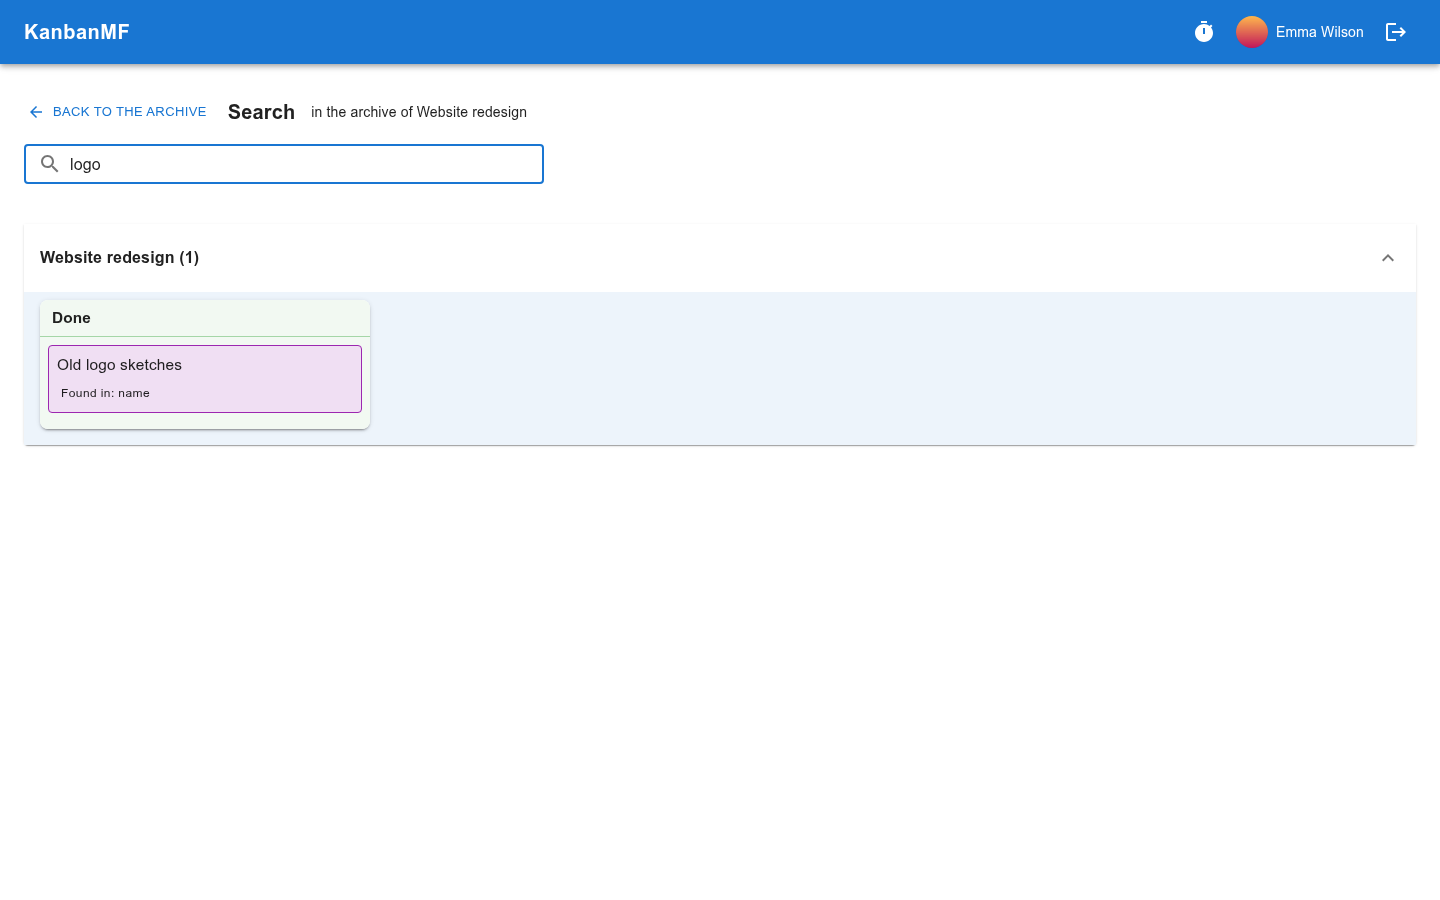
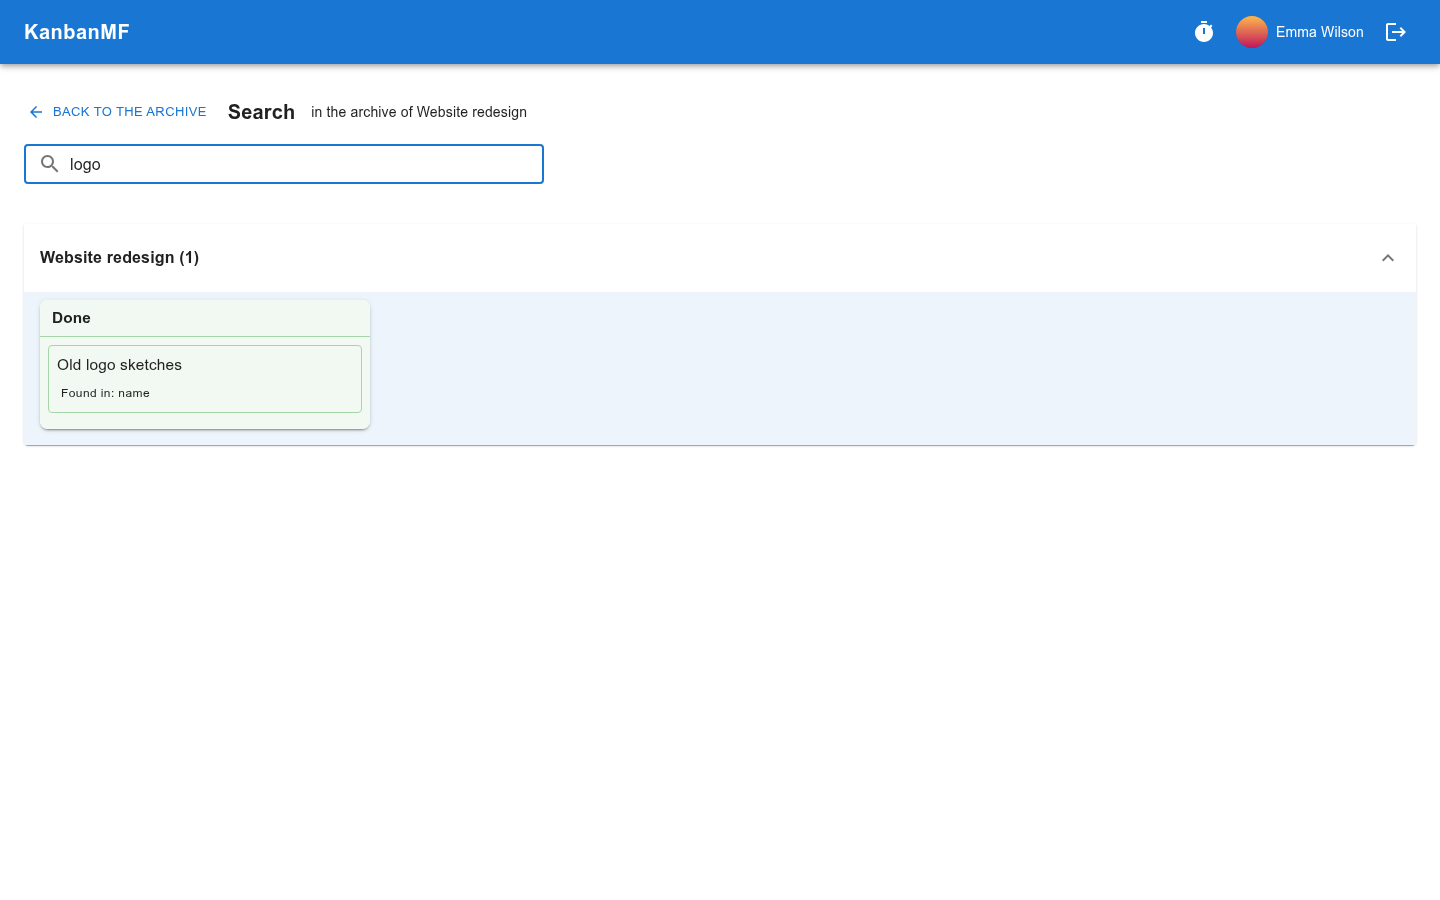
Added more frontend tests, solved contrast issues detected.

Changed region(s): [[0.0312, 0.3733, 0.25, 0.4667]]

diff --git a/frontend/src/utils/locale.test.ts b/frontend/src/utils/locale.test.ts
@@ -1,0 +1,84 @@
+import dayjs from 'dayjs'
+import { describe, expect, it, vi } from 'vitest'
+import {
+  DATE_LOCALES,
+  dayjsLocaleFor,
+  formatDateTime,
+  getBrowserTimezone,
+  intlCodeFor,
+  TIMEZONES,
+} from './locale'
+
+// Intl's exact output (separators, the space before "PM") varies between
+// ICU versions, so these tests check the parts that matter rather than
+// whole strings. The tests run in Europe/Madrid (vite.config.ts).
+const WINTER = '2026-11-14T13:05:00Z' // Saturday, 14:05 in Madrid
+
+describe('intlCodeFor and dayjsLocaleFor', () => {
+  it('give the codes of each supported locale', () => {
+    expect(DATE_LOCALES.map((l) => [l.code, intlCodeFor(l.code), dayjsLocaleFor(l.code)])).toEqual([
+      ['en', 'en-US', 'en'],
+      ['en_GB', 'en-GB', 'en-gb'],
+      ['ca_ES', 'ca-ES', 'ca'],
+    ])
+  })
+
+  it('fall back to US English for an unknown code', () => {
+    expect(intlCodeFor('fr_FR')).toBe('en-US')
+    expect(dayjsLocaleFor('')).toBe('en')
+  })
+})
+
+it('has every dayjs locale it lists loaded', () => {
+  // dayjs.Ls holds the locales imported so far; an unloaded one would
+  // silently fall back to English.
+  const missing = DATE_LOCALES.map((l) => l.dayjsLocale).filter((name) => !(name in dayjs.Ls))
+  expect(missing).toEqual([])
+})
+
+describe('formatDateTime', () => {
+  it('puts the month first and uses AM/PM in US English', () => {
+    const text = formatDateTime(WINTER, 'en-US', 'numeric')
+    expect(text).toMatch(/^11\/14\/2026\b/)
+    expect(text).toMatch(/\b02:05\sPM$/)
+  })
+
+  it('puts the day first and uses 24 hours in British English and Catalan', () => {
+    for (const intlCode of ['en-GB', 'ca-ES']) {
+      const text = formatDateTime(WINTER, intlCode, 'numeric')
+      expect(text, intlCode).toMatch(/^14\/11\/2026\b/)
+      expect(text, intlCode).toMatch(/\b14:05$/)
+    }
+  })
+
+  it('writes the weekday and the month in the language when textual', () => {
+    expect(formatDateTime(WINTER, 'en-US', 'textual')).toMatch(/Saturday.*November/)
+    expect(formatDateTime(WINTER, 'ca-ES', 'textual')).toMatch(/dissabte.*novembre/)
+  })
+
+  it('shows the time in the browser time zone, from a Date or an ISO string', () => {
+    expect(formatDateTime('2026-11-14T09:30:00Z', 'en-GB', 'numeric')).toMatch(/\b10:30$/)
+    expect(formatDateTime(new Date('2026-07-01T09:30:00Z'), 'en-GB', 'numeric')).toMatch(/\b11:30$/)
+  })
+})
+
+describe('time zones', () => {
+  it('lists the IANA zones, and gives the browser one', () => {
+    expect(TIMEZONES).toEqual(expect.arrayContaining(['Europe/Madrid', 'America/New_York']))
+    expect(getBrowserTimezone()).toBe('Europe/Madrid')
+  })
+
+  it('lists none on a browser without Intl.supportedValuesOf', async () => {
+    const intl = Intl as { supportedValuesOf?: unknown }
+    const original = intl.supportedValuesOf
+    intl.supportedValuesOf = undefined
+    try {
+      // TIMEZONES is computed when the module loads, so load a fresh copy.
+      vi.resetModules()
+      const fresh = await import('./locale')
+      expect(fresh.TIMEZONES).toEqual([])
+    } finally {
+      intl.supportedValuesOf = original
+    }
+  })
+})

diff --git a/frontend/src/utils/dueDateColor.test.ts b/frontend/src/utils/dueDateColor.test.ts
@@ -1,0 +1,64 @@
+import dayjs from 'dayjs'
+import { beforeEach, describe, expect, it, vi } from 'vitest'
+import { dueDateStyle } from './dueDateColor'
+
+// The tests run in Europe/Madrid (vite.config.ts), so the offsets below are
+// that zone's: +01:00 in winter, +02:00 in summer. setup.ts puts the real
+// clock back after each test.
+const NOW = '2026-11-14T12:00:00+01:00'
+
+const DARK_TEXT = 'rgba(0, 0, 0, 0.87)'
+const WHITE_TEXT = '#fff'
+
+function styleFor(dueAt: string) {
+  return dueDateStyle(dayjs(dueAt))
+}
+
+describe('dueDateStyle', () => {
+  beforeEach(() => {
+    vi.setSystemTime(NOW)
+  })
+
+  it('is dark red with white text once the due day has passed', () => {
+    expect(styleFor('2026-11-13T18:00:00+01:00')).toEqual({ background: 'rgb(127, 0, 0)', color: WHITE_TEXT })
+  })
+
+  it('is red with dark text on the due day, even after the due time', () => {
+    expect(styleFor('2026-11-14T08:00:00+01:00')).toEqual({ background: 'rgb(244, 67, 54)', color: DARK_TEXT })
+  })
+
+  it('is orange with dark text the day before', () => {
+    expect(styleFor('2026-11-15T10:00:00+01:00')).toEqual({ background: 'rgb(255, 152, 0)', color: DARK_TEXT })
+  })
+
+  it('is mostly yellow 4 days before', () => {
+    expect(styleFor('2026-11-18T10:00:00+01:00')).toEqual({ background: 'rgb(255, 214, 44)', color: DARK_TEXT })
+  })
+
+  it('is yellow with dark text 5 days before', () => {
+    expect(styleFor('2026-11-19T10:00:00+01:00')).toEqual({ background: 'rgb(255, 235, 59)', color: DARK_TEXT })
+  })
+
+  it('is between yellow and green 7 days before', () => {
+    expect(styleFor('2026-11-21T10:00:00+01:00')).toEqual({ background: 'rgb(183, 211, 67)', color: DARK_TEXT })
+  })
+
+  it('is green with dark text 10 days before or earlier', () => {
+    const green = { background: 'rgb(76, 175, 80)', color: DARK_TEXT }
+    expect(styleFor('2026-11-24T10:00:00+01:00')).toEqual(green)
+    expect(styleFor('2026-12-14T10:00:00+01:00')).toEqual(green)
+  })
+
+  it('counts calendar days, not periods of 24 hours', () => {
+    vi.setSystemTime('2026-11-14T23:00:00+01:00')
+    // Two hours away, but tomorrow: orange, not the red of the due day.
+    expect(styleFor('2026-11-15T01:00:00+01:00').background).toBe('rgb(255, 152, 0)')
+  })
+
+  it('still counts 2 days across the spring clock change', () => {
+    // 29 March 2026 has 23 hours, so only 47 hours separate the two
+    // midnights: dividing milliseconds by 24 hours would give 1 day.
+    vi.setSystemTime('2026-03-28T12:00:00+01:00')
+    expect(styleFor('2026-03-30T12:00:00+02:00').background).toBe('rgb(255, 173, 15)')
+  })
+})

diff --git a/frontend/src/utils/labelList.test.ts b/frontend/src/utils/labelList.test.ts
@@ -1,0 +1,70 @@
+import { describe, expect, it } from 'vitest'
+import { capLabels, labelSummary, sortLabels } from './labelList'
+
+// The helpers take anything with a name; the ids show which object is which.
+function labels(...names: string[]) {
+  return names.map((name, i) => ({ id: `l${i + 1}`, name }))
+}
+
+function names(list: { name: string }[]): string[] {
+  return list.map((l) => l.name)
+}
+
+const FIVE = labels('Urgent', 'Writing', 'Bug', 'Website', 'Client')
+
+describe('sortLabels', () => {
+  it('sorts by name, ignoring case and accents', () => {
+    expect(names(sortLabels(labels('Urgent', 'àrea', 'Bug', 'client')))).toEqual(['àrea', 'Bug', 'client', 'Urgent'])
+  })
+
+  it('puts numbers in natural order', () => {
+    expect(names(sortLabels(labels('Phase 10', 'Phase 2', 'Phase 1')))).toEqual(['Phase 1', 'Phase 2', 'Phase 10'])
+  })
+
+  it('returns a sorted copy and leaves the input as it was', () => {
+    const input = labels('Client', 'Bug')
+    const sorted = sortLabels(input)
+    expect(names(input)).toEqual(['Client', 'Bug'])
+    expect(sorted).not.toBe(input)
+  })
+
+  it('keeps labels with equal names in the order given', () => {
+    expect(sortLabels(labels('Area', 'àrea', 'AREA')).map((l) => l.id)).toEqual(['l1', 'l2', 'l3'])
+  })
+})
+
+describe('capLabels', () => {
+  it('shows the first 3 by default and counts the rest', () => {
+    const { shown, hidden } = capLabels(FIVE)
+    expect(names(shown)).toEqual(['Urgent', 'Writing', 'Bug'])
+    expect(hidden).toBe(2)
+  })
+
+  it('shows every label when there are no more than the maximum', () => {
+    expect(capLabels(labels('Bug', 'Client'))).toEqual({ shown: labels('Bug', 'Client'), hidden: 0 })
+    expect(capLabels(labels('Bug', 'Client', 'Urgent')).hidden).toBe(0)
+  })
+
+  it('shows none when the maximum is 0 or less', () => {
+    expect(capLabels(FIVE, 0)).toEqual({ shown: [], hidden: 5 })
+    expect(capLabels(FIVE, -2)).toEqual({ shown: [], hidden: 5 })
+  })
+})
+
+describe('labelSummary', () => {
+  it('is empty when there are no labels', () => {
+    expect(labelSummary([])).toBe('')
+  })
+
+  it('lists the labels sorted, in brackets', () => {
+    expect(labelSummary(labels('Client', 'Bug'))).toBe('(Bug, Client)')
+  })
+
+  it('adds how many labels were left out', () => {
+    expect(labelSummary(FIVE)).toBe('(Bug, Client, Urgent +2)')
+  })
+
+  it('shows only the count when the maximum is 0', () => {
+    expect(labelSummary(FIVE, 0)).toBe('(+5)')
+  })
+})

diff --git a/frontend/src/utils/colorPalette.test.ts b/frontend/src/utils/colorPalette.test.ts
@@ -1,0 +1,39 @@
+import { describe, expect, it } from 'vitest'
+import { PALETTE_COLUMNS } from './colorPalette'
+
+// Relative luminance (WCAG), from 0 for black to 1 for white.
+function luminance(hex: string): number {
+  const [r, g, b] = [1, 3, 5].map((i) => {
+    const s = parseInt(hex.slice(i, i + 2), 16) / 255
+    return s <= 0.03928 ? s / 12.92 : ((s + 0.055) / 1.055) ** 2.4
+  })
+  return 0.2126 * r + 0.7152 * g + 0.0722 * b
+}
+
+describe('PALETTE_COLUMNS', () => {
+  it('has 10 columns of 7 shades, each written as #RRGGBB', () => {
+    expect(PALETTE_COLUMNS).toHaveLength(10)
+    for (const column of PALETTE_COLUMNS) {
+      expect(column.shades, column.name).toHaveLength(7)
+      for (const shade of column.shades) expect(shade, column.name).toMatch(/^#[0-9A-F]{6}$/)
+    }
+  })
+
+  it('never repeats a colour or a column name', () => {
+    const shades = PALETTE_COLUMNS.flatMap((c) => c.shades)
+    const names = PALETTE_COLUMNS.map((c) => c.name)
+    expect(new Set(shades).size).toBe(shades.length)
+    expect(new Set(names).size).toBe(names.length)
+  })
+
+  it('goes from light to dark down each column, and gray carries on where white stops', () => {
+    for (const column of PALETTE_COLUMNS) {
+      const levels = column.shades.map(luminance)
+      const notDarker = levels.slice(1).filter((level, i) => level >= levels[i])
+      expect(notDarker, column.name).toEqual([])
+    }
+    const white = PALETTE_COLUMNS.find((c) => c.name === 'white')!
+    const gray = PALETTE_COLUMNS.find((c) => c.name === 'gray')!
+    expect(luminance(gray.shades[0])).toBeLessThan(luminance(white.shades[6]))
+  })
+})

diff --git a/frontend/src/utils/dueDateColor.ts b/frontend/src/utils/dueDateColor.ts
@@ -13,7 +13,7 @@ function mix(a: RGB, b: RGB, t: number): RGB {
   return [0, 1, 2].map((i) => Math.round(a[i] + (b[i] - a[i]) * clamped)) as RGB
 }
 
-// Relative luminance (WCAG) — used to pick readable text color for a background.
+// Relative luminance (WCAG), from 0 for black to 1 for white.
 function luminance([r, g, b]: RGB): number {
   const [rr, gg, bb] = [r, g, b].map((c) => {
     const s = c / 255
@@ -39,8 +39,16 @@ export function dueDateStyle(dueAt: Dayjs): DueDateStyle {
   else if (daysUntil <= 10) rgb = mix(GREEN, YELLOW, (10 - daysUntil) / 5)
   else rgb = GREEN
 
+  // The text takes whichever of dark and white contrasts more with the
+  // background (WCAG contrast ratio, (lighter + 0.05) / (darker + 0.05)).
+  // White only wins on dark backgrounds, below a luminance of about 0.18,
+  // such as the overdue dark red; on red, orange and green, dark text is far
+  // easier to read.
+  const background = luminance(rgb)
+  const contrastWithWhite = 1.05 / (background + 0.05)
+  const contrastWithDark = (background + 0.05) / 0.05
   return {
     background: `rgb(${rgb[0]}, ${rgb[1]}, ${rgb[2]})`,
-    color: luminance(rgb) > 0.5 ? 'rgba(0, 0, 0, 0.87)' : '#fff',
+    color: contrastWithDark >= contrastWithWhite ? 'rgba(0, 0, 0, 0.87)' : '#fff',
   }
 }

diff --git a/frontend/src/utils/colorTint.test.ts b/frontend/src/utils/colorTint.test.ts
@@ -1,0 +1,30 @@
+import { describe, expect, it } from 'vitest'
+import { STRONG_TINT_WEIGHT, tintColor } from './colorTint'
+
+describe('tintColor', () => {
+  it('gives the base colour at weight 0', () => {
+    // 0x0d also checks that one-digit channels keep their leading zero.
+    expect(tintColor('#1976d2', '#0d47a1', 0)).toBe('#0d47a1')
+  })
+
+  it('gives the colour itself at weight 1', () => {
+    expect(tintColor('#1976d2', '#ffffff', 1)).toBe('#1976d2')
+  })
+
+  it('rounds each channel of the blend', () => {
+    // 127.5 on every channel.
+    expect(tintColor('#000000', '#ffffff', 0.5)).toBe('#808080')
+  })
+
+  it('reads a 3-digit base such as #fff as #ffffff', () => {
+    // MUI's light theme gives its backgrounds as '#fff'.
+    const tint = tintColor('#1976D2', '#fff', STRONG_TINT_WEIGHT)
+    expect(tint).toMatch(/^#[0-9a-f]{6}$/)
+    expect(tint).toBe(tintColor('#1976D2', '#ffffff', STRONG_TINT_WEIGHT))
+  })
+
+  it('takes upper- or lowercase input and answers in lowercase', () => {
+    expect(tintColor('#1976D2', '#FFFFFF', 0.5)).toBe('#8cbbe9')
+    expect(tintColor('#1976d2', '#ffffff', 0.5)).toBe('#8cbbe9')
+  })
+})

diff --git a/frontend/src/test/render.test.tsx b/frontend/src/test/render.test.tsx
@@ -1,7 +1,7 @@
 // Checks the test harness itself (setup.ts, server.ts, render.tsx), so a
 // broken helper shows up here rather than as puzzling failures elsewhere.
 import { useEffect, useState } from 'react'
-import { describe, expect, it } from 'vitest'
+import { describe, expect, it, vi } from 'vitest'
 import { screen } from '@testing-library/react'
 import { useTheme } from '@mui/material'
 import { useParams } from 'react-router-dom'
@@ -76,6 +76,19 @@ describe('renderWithProviders', () => {
     renderWithProviders(<WhereAmI />)
     expect(i18n.language).toBe('en')
     expect(screen.getByText(/^Start/)).toBeInTheDocument()
+  })
+})
+
+describe('the clock', () => {
+  it('can be fixed by a test', () => {
+    vi.setSystemTime('2000-01-01T12:00:00Z')
+    expect(new Date().getFullYear()).toBe(2000)
+  })
+
+  // Relies on running right after the test above (tests in a file run in
+  // order): setup.ts must have put the real clock back in between.
+  it('is real again in the next test', () => {
+    expect(new Date().getFullYear()).toBeGreaterThan(2000)
   })
 })
 

diff --git a/frontend/src/utils/labelColor.test.ts b/frontend/src/utils/labelColor.test.ts
@@ -1,0 +1,23 @@
+import { describe, expect, it } from 'vitest'
+import { contrastColor } from './labelColor'
+
+// Label colours come from the palette and are always #RRGGBB: the backend
+// refuses any other form.
+describe('contrastColor', () => {
+  it('gives black text on light colours', () => {
+    for (const color of ['#FFFFFF', '#FFEB3B', '#BBDEFB', '#FF9800']) {
+      expect(contrastColor(color), color).toBe('#000000')
+    }
+  })
+
+  it('gives white text on dark colours', () => {
+    for (const color of ['#000000', '#0D47A1', '#B71C1C', '#4A148C']) {
+      expect(contrastColor(color), color).toBe('#ffffff')
+    }
+  })
+
+  it('reads upper- and lowercase hex alike', () => {
+    expect(contrastColor('#ffeb3b')).toBe('#000000')
+    expect(contrastColor('#0d47a1')).toBe('#ffffff')
+  })
+})

diff --git a/frontend/src/test/setup.ts b/frontend/src/test/setup.ts
@@ -26,6 +26,9 @@ beforeEach(async () => {
 afterEach(() => {
   cleanup()
   server.resetHandlers()
+  // A clock a test fixed (vi.setSystemTime) or fake timers it started stop
+  // here, so they can't leak into the next test.
+  vi.useRealTimers()
   // The access token and the socket live in module state (api/client.ts,
   // api/ws.ts), which outlives a single test.
   setAccessToken(null)

diff --git a/docs/source/frontend/code/utils.rst b/docs/source/frontend/code/utils.rst
@@ -18,7 +18,8 @@ Small pure helpers, with no React in them:
    (a card on a coloured list) without bleeding into each other.
 
 ``dueDateColor.ts``
-   The due-date colour scale, green to dark red, with readable text on top.
+   The due-date colour scale, green to dark red, with dark or white text on
+   top, whichever contrasts more.
 
 ``duration.ts``
    Durations as ``H:MM``, as ``H:MM:SS`` for the running task, and as
